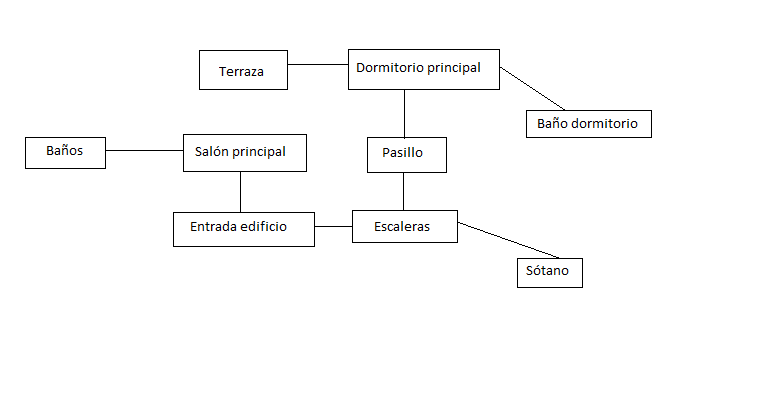
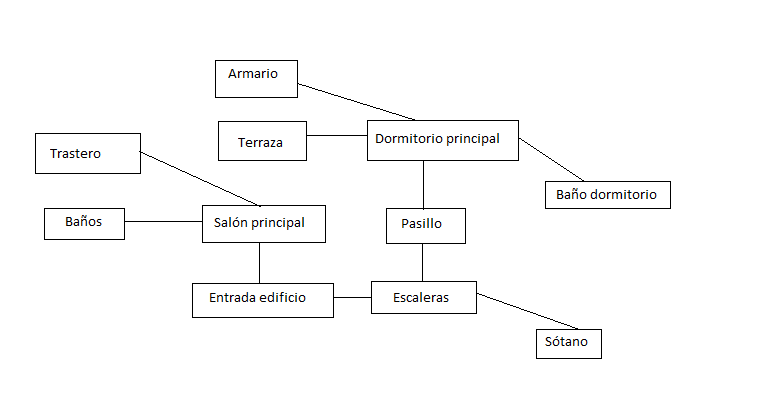
06. Añadidas habitaciones en posicion noroeste

diff --git a/Room.java b/Room.java
@@ -20,6 +20,7 @@ public class Room
     private Room eastExit;
     private Room westExit;
     private Room southEastExit;
+    private Room northWestExit;
 
     /**
      * Create a room described "description". Initially, it has
@@ -40,8 +41,9 @@ public class Room
      * @param south The south exit.
      * @param west The west exit.
      * @param southEast The southEast exit.
+     * * @param northWest The northWest exit.
      */
-    public void setExits(Room north, Room east, Room south, Room west, Room southEast) 
+    public void setExits(Room north, Room east, Room south, Room west, Room southEast, Room northWest) 
     {
         if(north != null)
             northExit = north;
@@ -53,6 +55,8 @@ public class Room
             westExit = west;
         if(southEast != null)
             southEastExit = southEast;
+        if(northWest != null)
+            northWestExit = northWest;
     }
 
     /**
@@ -80,6 +84,8 @@ public class Room
             actualRoomExit = westExit;
         if(direccion.equals("southEast"))
             actualRoomExit = southEastExit;
+        if(direccion.equals("northWest"))
+            actualRoomExit = northWestExit;
         return actualRoomExit;
     }
 
@@ -104,7 +110,10 @@ public class Room
             exitString += "west ";
         }
         if(southEastExit != null) {
-            exitString += "southEast";
+            exitString += "southEast ";
+        }
+        if(northWestExit != null) {
+            exitString += "northWest";
         }
         return exitString.trim();
     }
